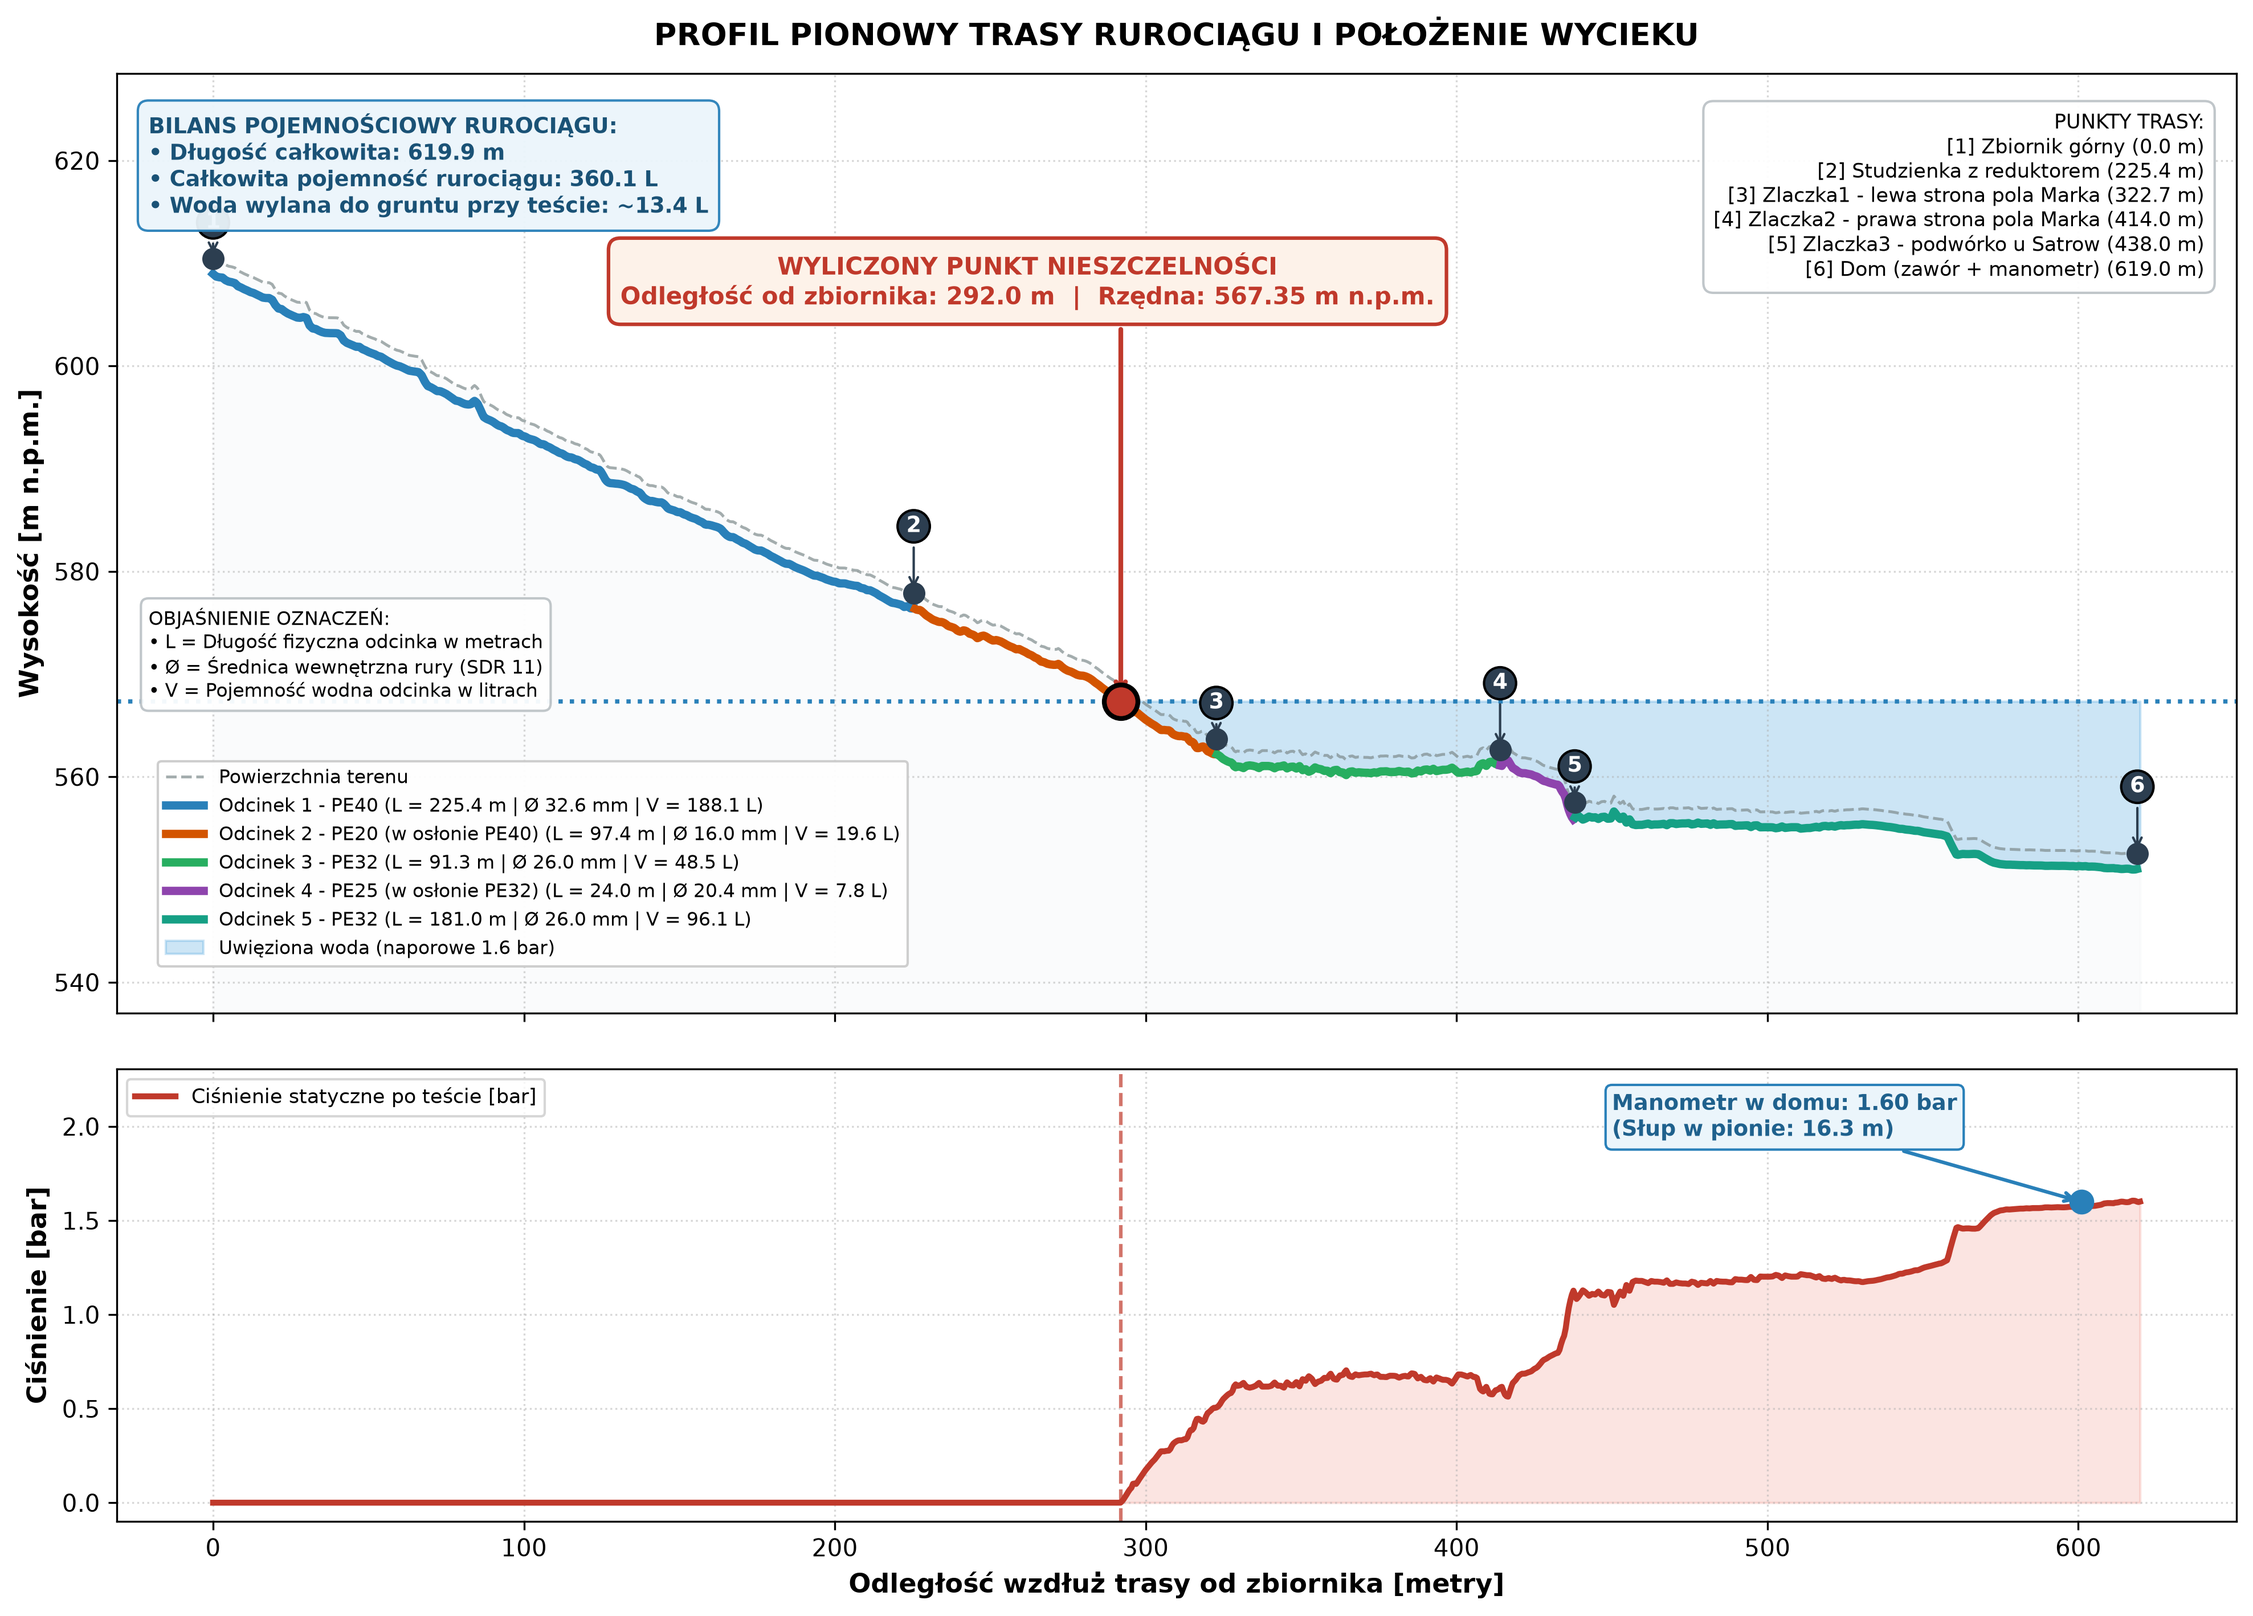
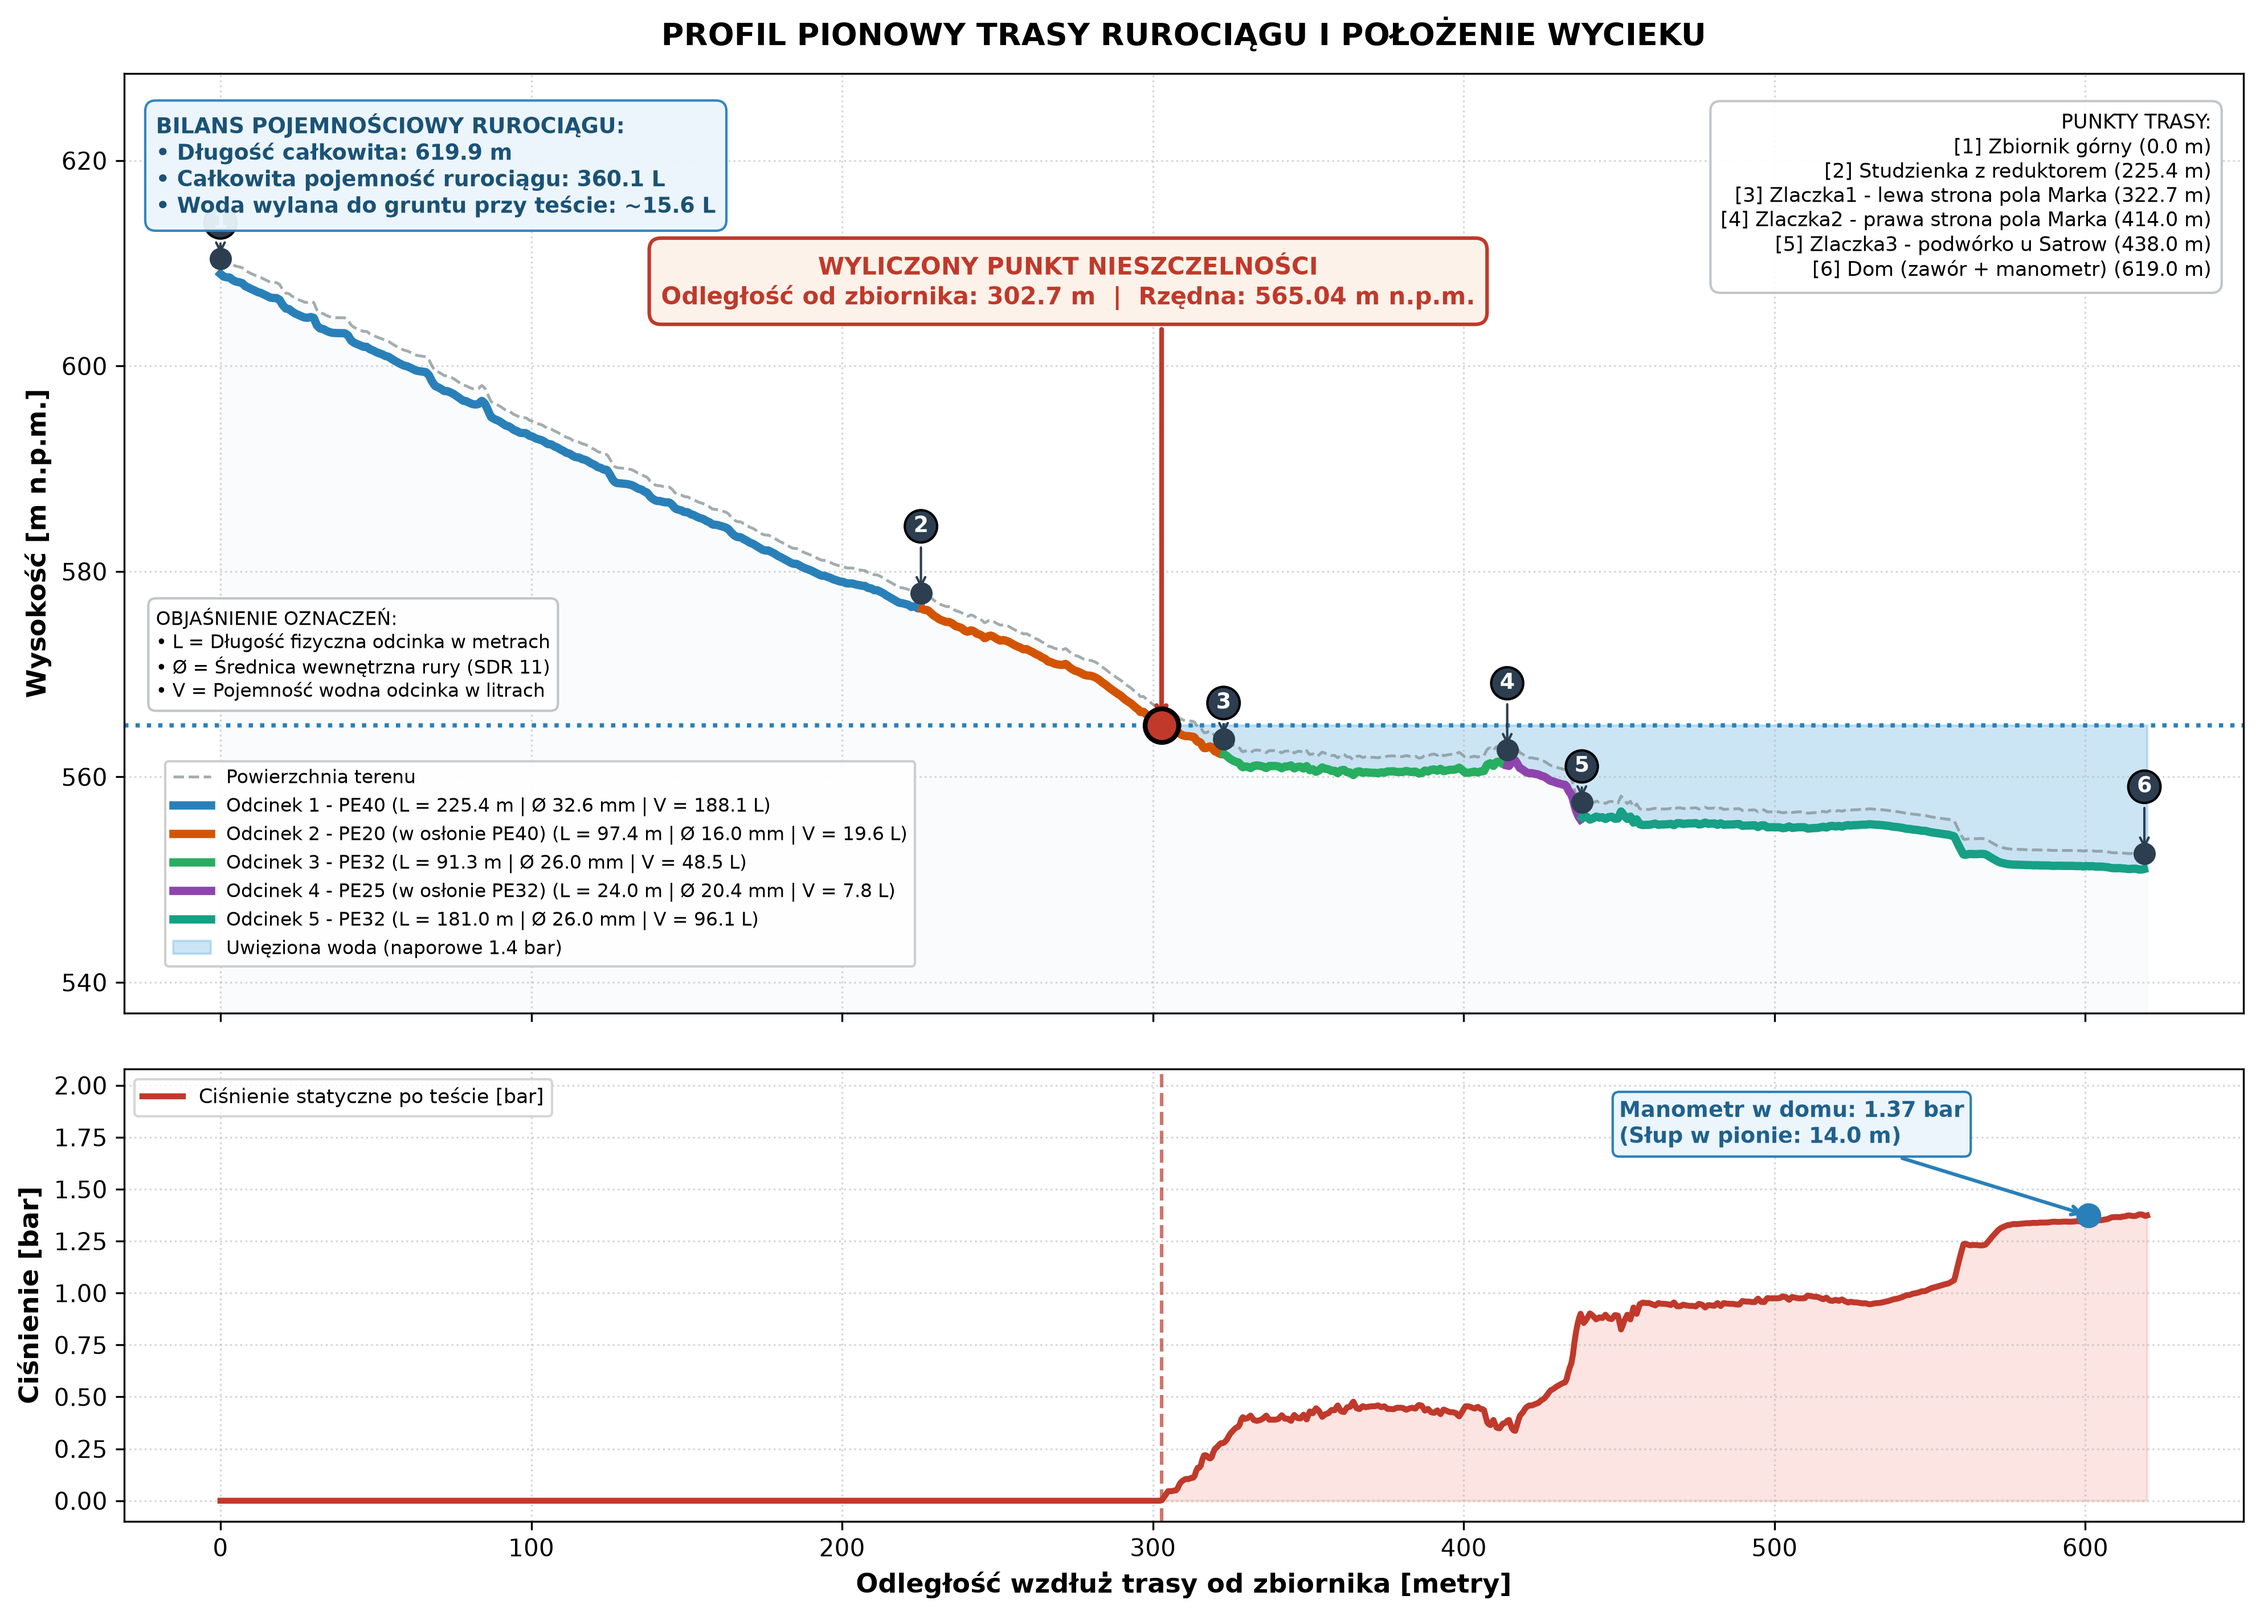
update

diff --git a/config.py b/config.py
@@ -115,8 +115,8 @@ SEKCJE_RUR = [
 
 # 5. DANE Z TESTU TATY
 POMIAR_TEST_SZCZELNOSCI = {
-    'cisnienie_poczatkowe_bar': 3.0,
-    'cisnienie_ustabilizowane_bar': 1.6,
-    'czas_spadku_min': 105.0,
+    'cisnienie_poczatkowe_bar': 3.0 / 1.0197,        # 3.0 At -> ~2.94 bar
+    'cisnienie_ustabilizowane_bar': 1.4 / 1.0197,    # 1.4 At -> ~1.37 bar
+    'czas_spadku_min': 53.0,                         # 14:19 do 15:12
     'punkt_zamkniety': 'Studzienka z reduktorem'
 }
